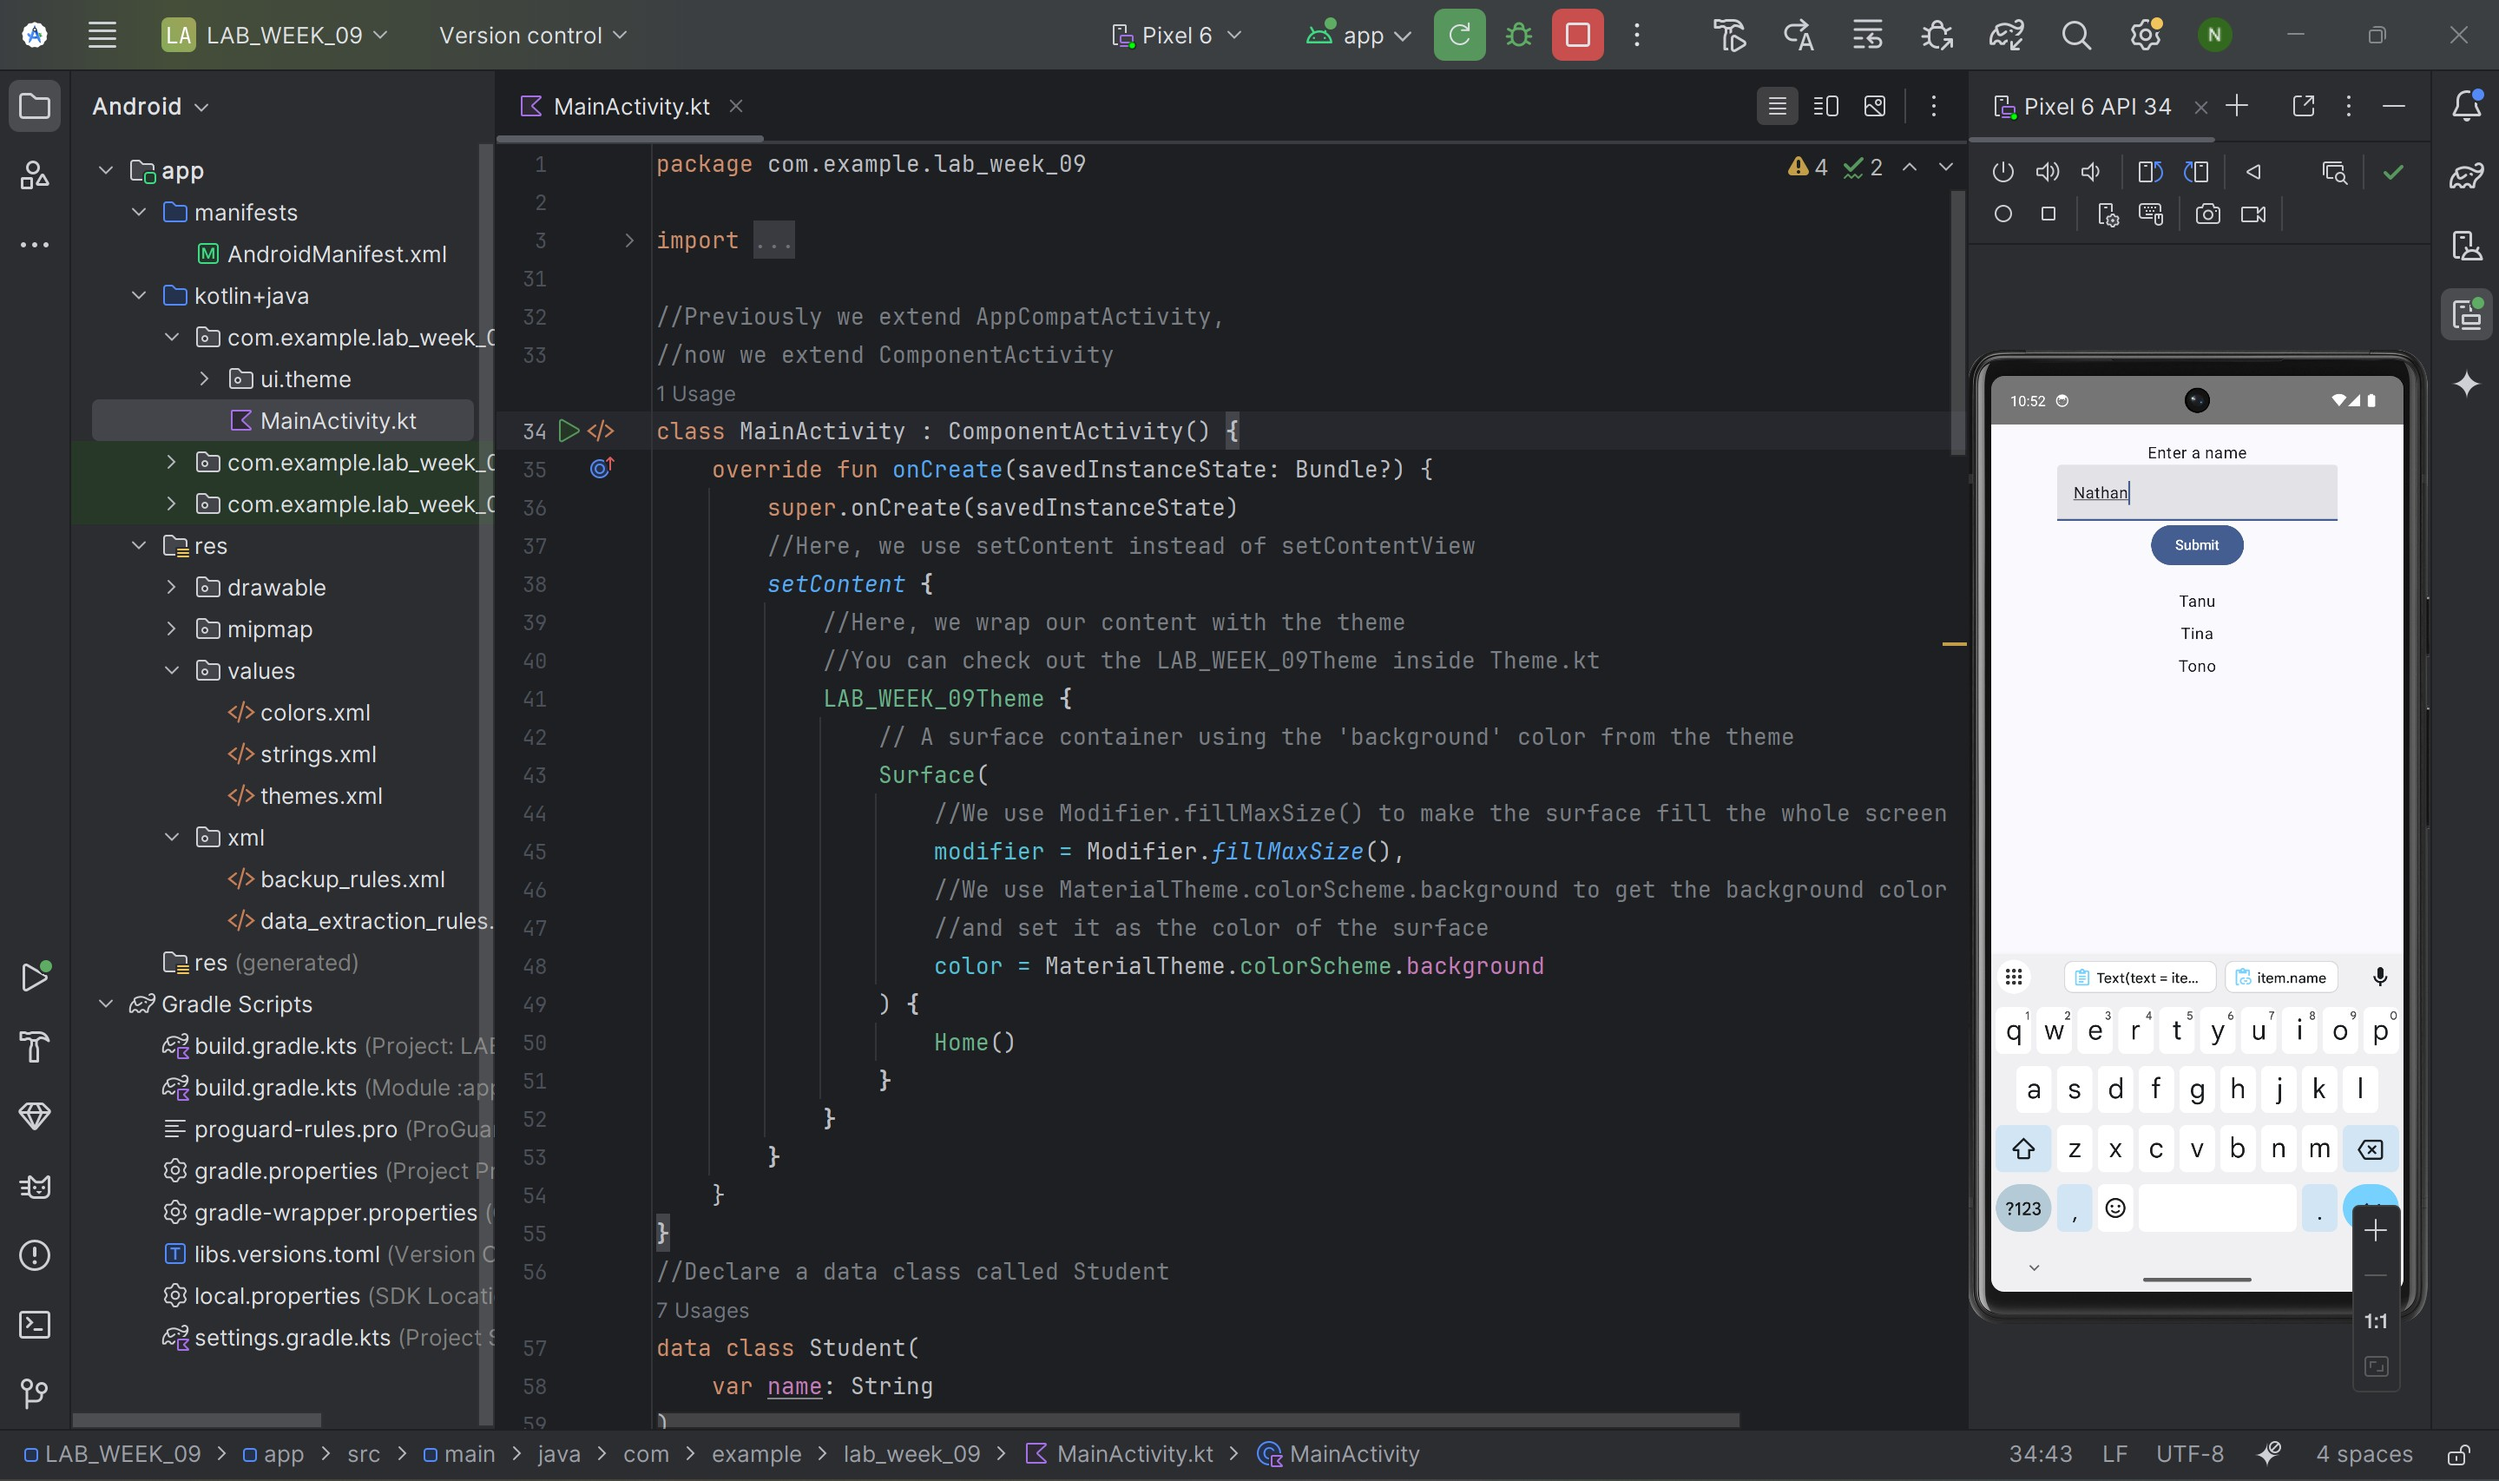
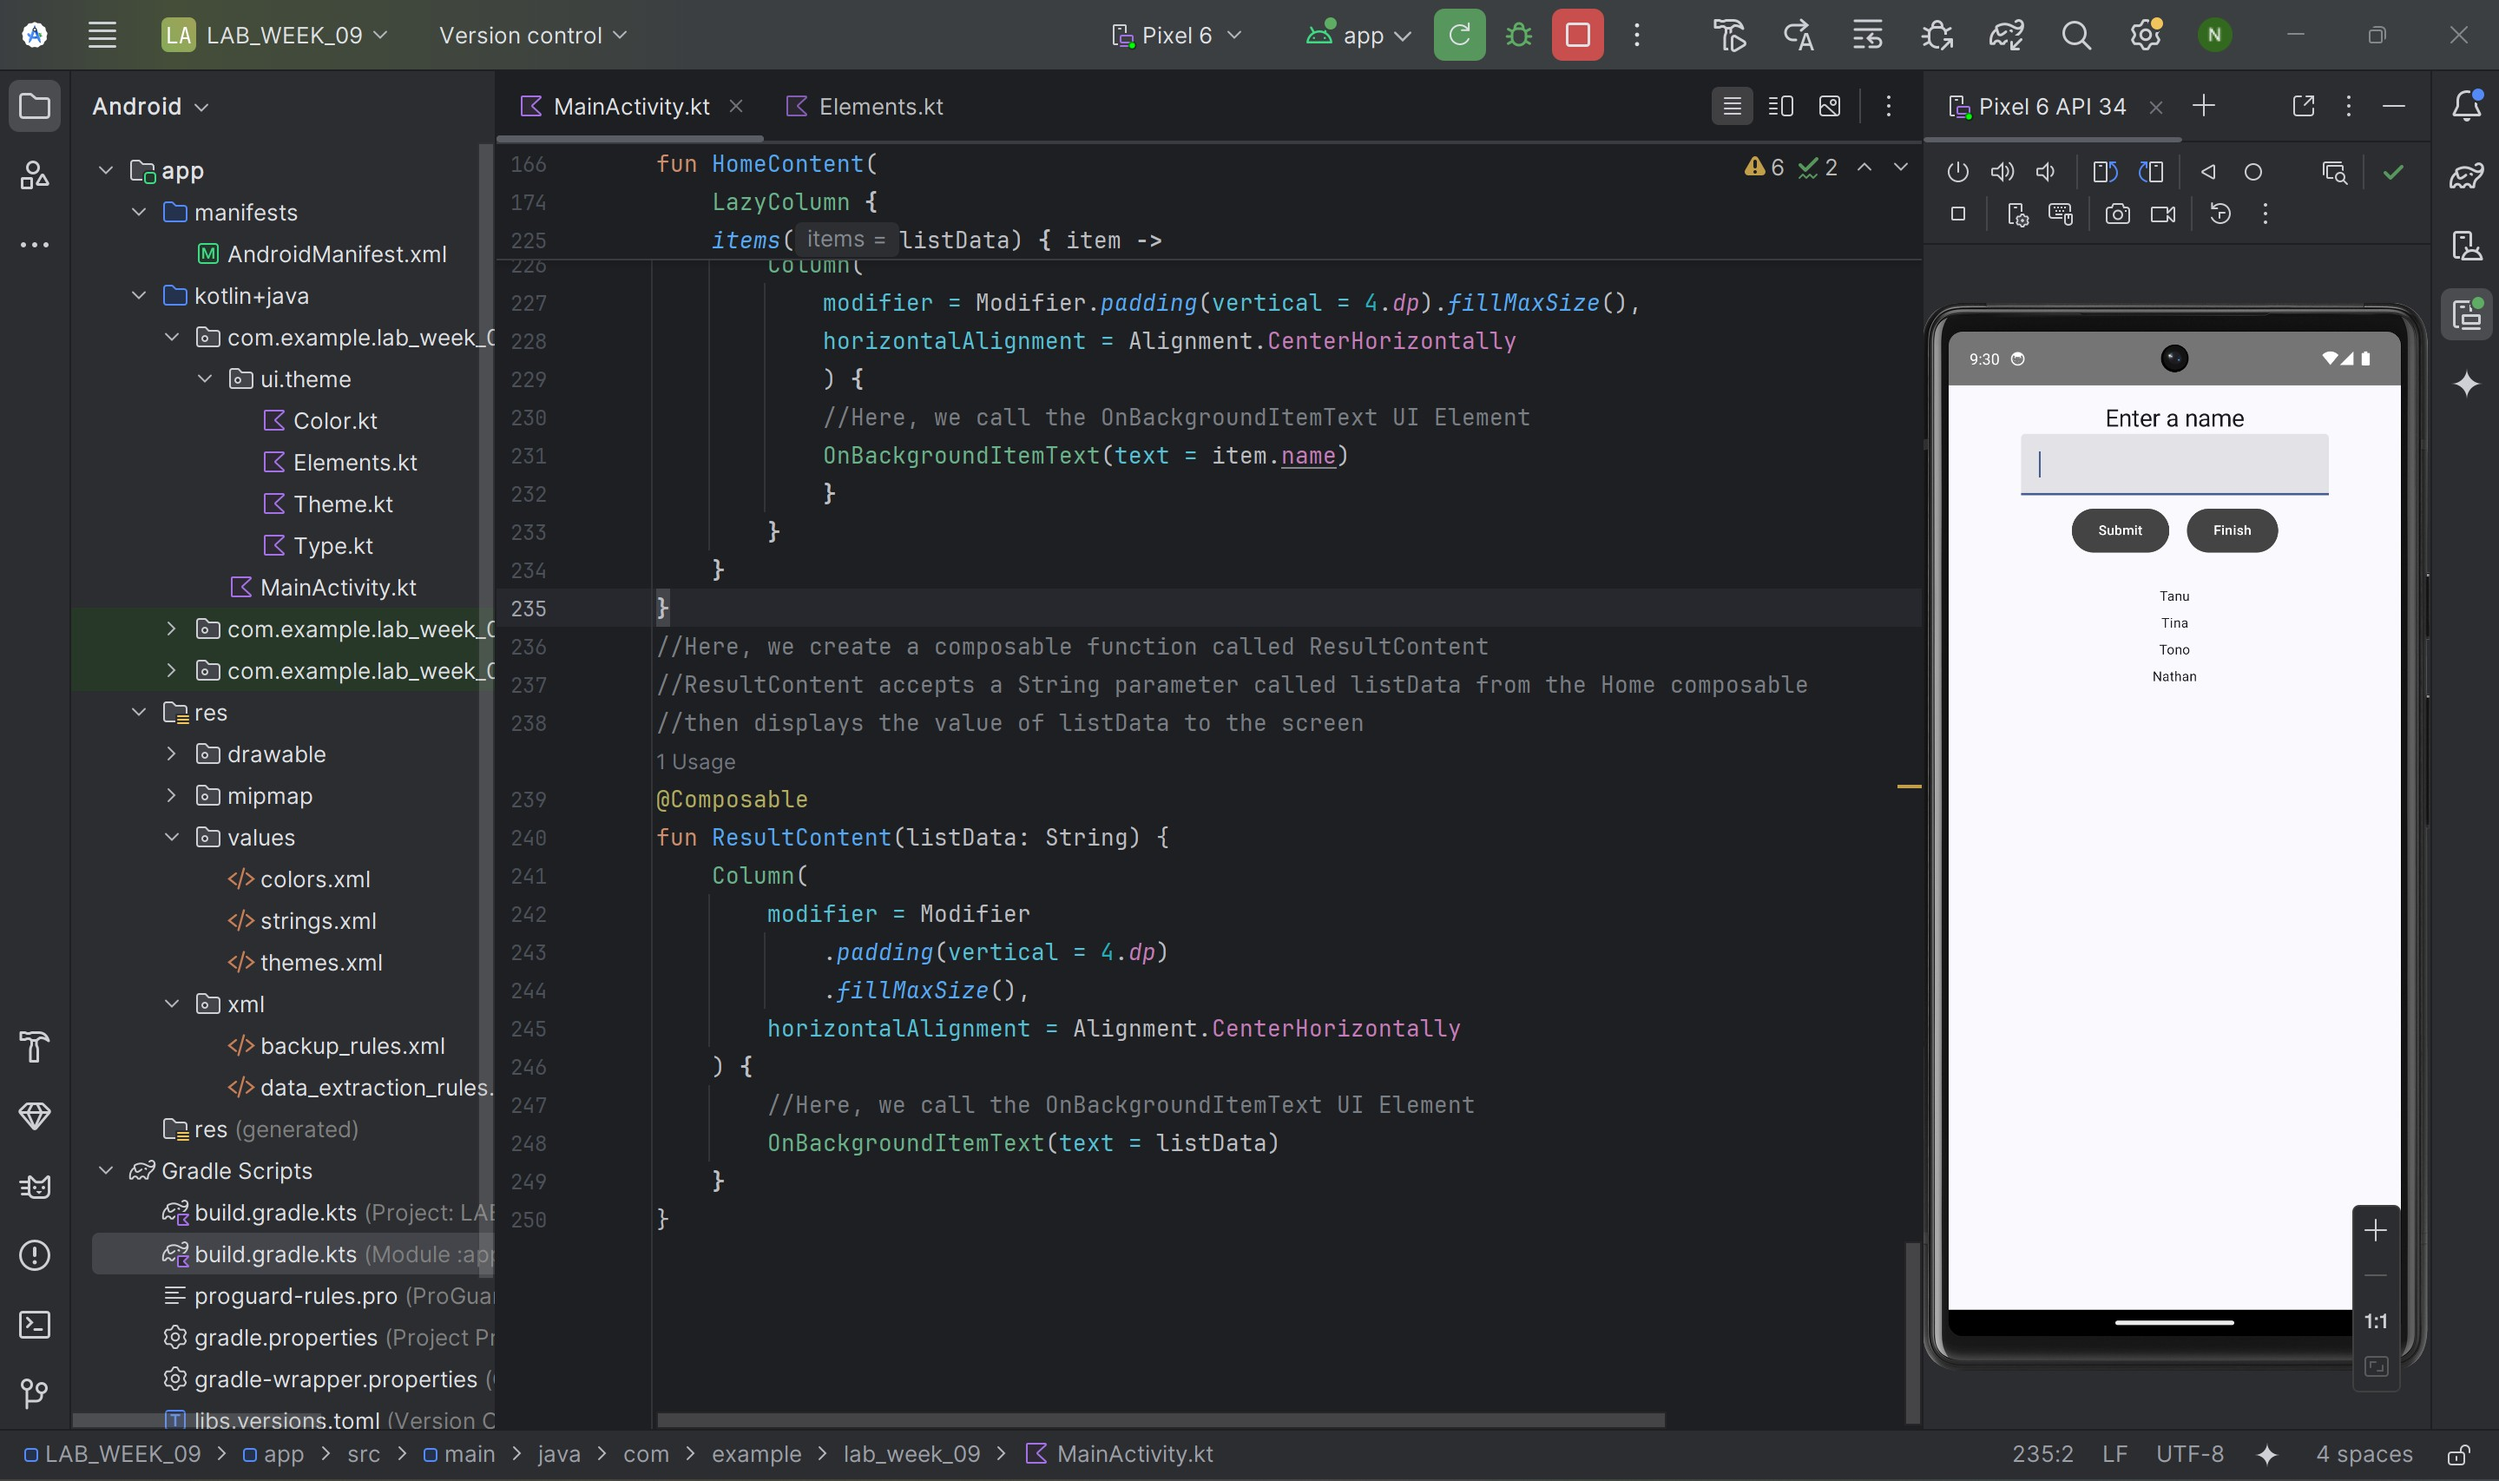
Commit No. 4 – Navigation

diff --git a/app/src/main/java/com/example/lab_week_09/MainActivity.kt b/app/src/main/java/com/example/lab_week_09/MainActivity.kt
@@ -5,6 +5,7 @@ import androidx.activity.ComponentActivity
 import androidx.activity.compose.setContent
 import androidx.activity.enableEdgeToEdge
 import androidx.compose.foundation.layout.Column
+import androidx.compose.foundation.layout.Row
 import androidx.compose.foundation.layout.fillMaxSize
 import androidx.compose.foundation.layout.padding
 import androidx.compose.foundation.lazy.LazyColumn
@@ -27,6 +28,12 @@ import androidx.compose.ui.res.stringResource
 import androidx.compose.ui.text.input.KeyboardType
 import androidx.compose.ui.tooling.preview.Preview
 import androidx.compose.ui.unit.dp
+import androidx.navigation.NavHostController
+import androidx.navigation.NavType
+import androidx.navigation.compose.NavHost
+import androidx.navigation.compose.composable
+import androidx.navigation.compose.rememberNavController
+import androidx.navigation.navArgument
 import com.example.lab_week_09.ui.theme.LAB_WEEK_09Theme
 import com.example.lab_week_09.ui.theme.OnBackgroundItemText
 import com.example.lab_week_09.ui.theme.OnBackgroundTitleText
@@ -50,7 +57,10 @@ class MainActivity : ComponentActivity() {
                     //and set it as the color of the surface
                     color = MaterialTheme.colorScheme.background
                 ) {
-                    Home()
+                    val navController = rememberNavController()
+                    App(
+                        navController = navController
+                    )
                 }
             }
         }
@@ -66,8 +76,55 @@ data class Student(
 //it doesn't know what to pass into the composable
 //So, we create another composable function called PreviewHome
 //and we pass the list as a parameter
+//Here, we create a composable function called App
+//This will be the root composable of the app
 @Composable
-fun Home() {
+fun App(navController: NavHostController) {
+    //Here, we use NavHost to create a navigation graph
+    //We pass the navController as a parameter
+    //We also set the startDestination to "home"
+    //This means that the app will start with the Home composable
+    NavHost(
+        navController = navController,
+        startDestination = "home"
+    ) {
+        //Here, we create a route called "home"
+        //We pass the Home composable as a parameter
+        //This means that when the app navigates to "home",
+        //the Home composable will be displayed
+        composable("home") {
+            //Here, we pass a lambda function that navigates to
+            "resultContent"
+            //and pass the listData as a parameter
+            Home { navController.navigate(
+                "resultContent/?listData=$it")
+            }
+        }
+        //Here, we create a route called "resultContent"
+        //We pass the ResultContent composable as a parameter
+        //This means that when the app navigates to "resultContent",
+        //the ResultContent composable will be displayed
+        //You can also define arguments for the route
+        //Here, we define a String argument called "listData"
+        //We use navArgument to define the argument
+        //We use NavType.StringType to define the type of the argument
+        composable(
+            "resultContent/?listData={listData}",
+            arguments = listOf(navArgument("listData") {
+                type = NavType.StringType }
+            )
+        ) {
+            //Here, we pass the value of the argument to the ResultContent composable
+            ResultContent(
+                it.arguments?.getString("listData").orEmpty()
+            )
+        }
+    }
+}
+@Composable
+fun Home(
+    navigateFromHomeToResult: (String) -> Unit
+) {
     //Here, we create a mutable state list of Student
     //We use remember to make the list remember its value
     //This is so that the list won't be recreated when the composable recomposes
@@ -99,7 +156,8 @@ fun Home() {
                 listData.add(inputField.value)
                 inputField.value = Student("")
             }
-        }
+        },
+        { navigateFromHomeToResult(listData.toList().toString()) }
     )
 }
 //Here, we create a composable function called HomeContent
@@ -109,7 +167,8 @@ fun HomeContent(
     listData: SnapshotStateList<Student>,
     inputField: Student,
     onInputValueChange: (String) -> Unit,
-    onButtonClick: () -> Unit
+    onButtonClick: () -> Unit,
+    navigateFromHomeToResult: () -> Unit
 ) {
     //Here, we use LazyColumn to display a list of items lazily
     LazyColumn {
@@ -147,14 +206,19 @@ fun HomeContent(
                     onInputValueChange(it)
                 }
             )
-            //Here, we call the PrimaryTextButton UI Element
-            PrimaryTextButton(text = stringResource(
-                id = R.string.button_click)
-            ) {
-                onButtonClick()
+
+                Row {
+                    PrimaryTextButton(text = stringResource(id =
+                        R.string.button_click)) {
+                        onButtonClick()
+                    }
+                    PrimaryTextButton(text = stringResource(id =
+                        R.string.button_navigate)) {
+                        navigateFromHomeToResult()
+                    }
+                }
             }
         }
-    }
     //Here, we use items to display a list of items inside the LazyColumn
     //This is the RecyclerView replacement
     //We pass the listData as a parameter
@@ -167,5 +231,20 @@ fun HomeContent(
             OnBackgroundItemText(text = item.name)
             }
         }
+    }
+}
+//Here, we create a composable function called ResultContent
+//ResultContent accepts a String parameter called listData from the Home composable
+//then displays the value of listData to the screen
+@Composable
+fun ResultContent(listData: String) {
+    Column(
+        modifier = Modifier
+            .padding(vertical = 4.dp)
+            .fillMaxSize(),
+        horizontalAlignment = Alignment.CenterHorizontally
+    ) {
+        //Here, we call the OnBackgroundItemText UI Element
+        OnBackgroundItemText(text = listData)
     }
 }
